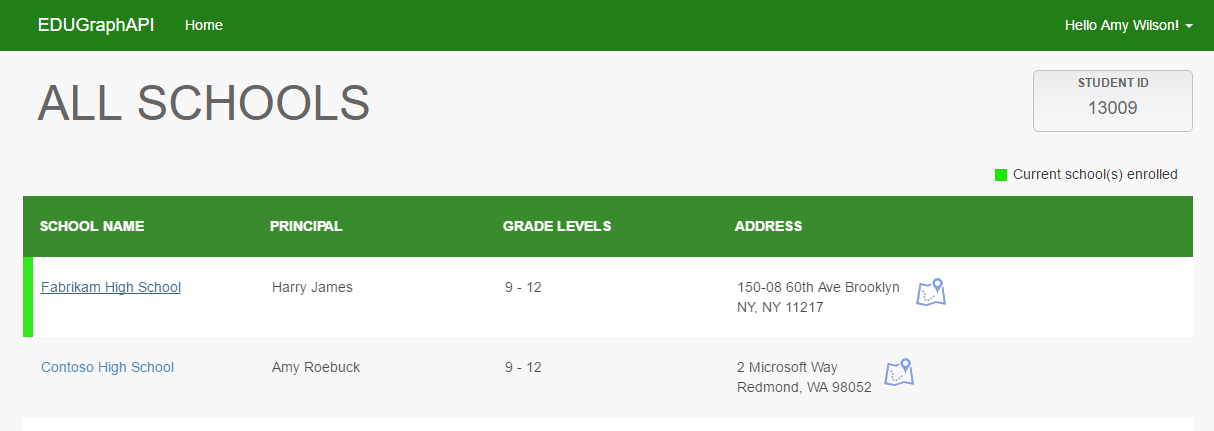
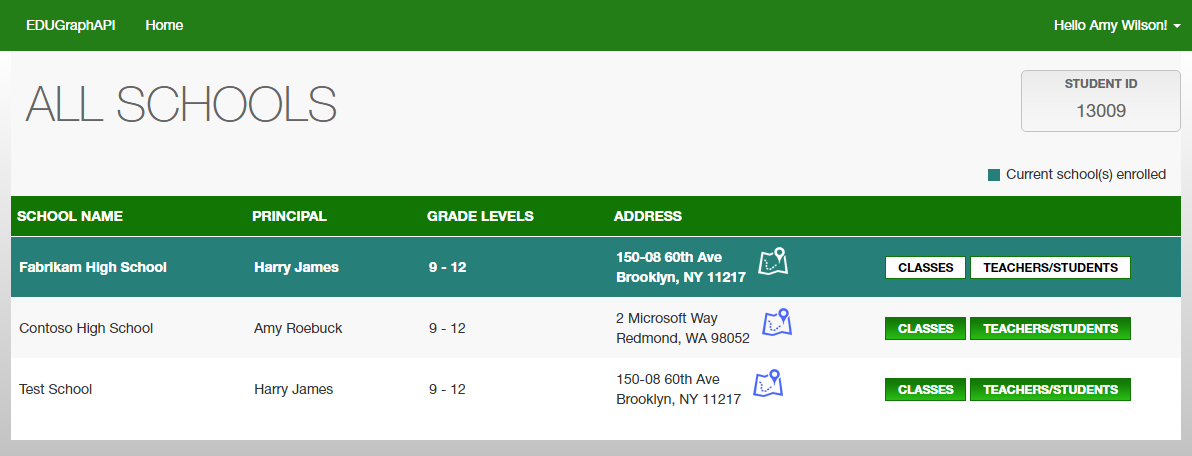
201612192036

diff --git a/src/EDUGraphAPI.Web/Content/Site.css b/src/EDUGraphAPI.Web/Content/Site.css
@@ -88,7 +88,7 @@ textarea {
 }
 
 /*Top navigation*/
-.navbar-inverse{background-color:#237e17;border-color:#237e17;}
+.navbar-inverse{background-color:#127605;border-color:#127605;}
 .navbar-inverse .navbar-brand, 
 .navbar-inverse .navbar-nav > li > a {color:white;}
 .navbar-inverse .navbar-brand{font-size:14px}
@@ -146,8 +146,9 @@ textarea {
 .schoolmap{float:left;}
 .toptiles{
     padding: 10px 0 15px 0;
-    border: 1px solid #237e17;
+    border: 1px solid #117605;
     border-top: none;
+    border-bottom-color:#127605;
     background-color: white;
     border-radius:5px;
     border-top-left-radius:0;
@@ -173,7 +174,7 @@ textarea {
     color: #fff;
     background-image: url(/Images/btngreenbg.png);
     padding: 3px 12px;
-    border: 1px solid #127604;
+    border: 1px solid #127605;
     text-decoration:none;
 }
 .table-green .td-green a.btnlink{background-color:white !important; background-image:none;color:black;text-transform:uppercase;}
@@ -194,16 +195,16 @@ textarea {
 .hr-green{border: 0;height: 10px;margin-top: 10px;}
 
 /*sections*/
-.sections .tophero{border-bottom:5px solid #127604;}
+.sections .tophero{border-bottom:5px solid #127605;}
 .sections .tophero .usericon{margin-top:10px;}
 .sections .tophero .usericon div{float:left;}
 .sections .tophero .usericon .icon{width:12px; height:12px; margin:5px 6px 0 0; background:-prefix-linear-zgradient(top, #434345, #BBBBBB); background:linear-gradient(to bottom, #434345, #BBBBBB);}
 .sections .tophero .usericon .icon.my-class{margin-left:12px; background:-prefix-linear-zgradient(top, #4E9F42, #B8E2B2); background:linear-gradient(to bottom, #4E9F42, #B8E2B2);}
 
-.section-tiles{padding-left:15px; background-color:white}
-.section-tiles .tile-container{margin-right: 18px;float: left;margin-bottom: 5px;margin-top: 12px;position:relative;}
+.section-tiles{padding:0 17.14px; background-color:white}
+.section-tiles .tile-container{margin-right:17.14px;float: left;margin-bottom: 5px;margin-top: 12px;position:relative;}
 .section-tiles .tile-container:nth-child(6n){margin-right:0;}
-.section-tiles .tile{display:inline-block;width:170px;height:170px;border:1px solid #C2C2C2;border-radius:5px;-moz-border-radius:5px;background: -prefix-linear-zgradient(top, #434345, #BBBBBB); background: linear-gradient(to bottom, #434345, #BBBBBB); color:#fff;}
+.section-tiles .tile{display:inline-block;width:175px;height:175px;box-sizing:border-box;border:1px solid #C2C2C2;border-radius:5px;-moz-border-radius:5px;background: -prefix-linear-zgradient(top, #434345, #BBBBBB); background: linear-gradient(to bottom, #434345, #BBBBBB); color:#fff;}
 .mysectionlink .tile{border:1px solid #C2C2C2;border-radius:5px;-moz-border-radius:5px;background: -prefix-linear-zgradient(top, #4E9F42, #B8E2B2); background: linear-gradient(to bottom, #4E9F42, #B8E2B2); }
 .section-tiles .tile>h5{text-align: center;margin: 60px 5px 0 5px;font-size:14px;font-style: normal;font-variant: normal;text-overflow:ellipsis}
 .section-tiles .tile>h2{text-align: center;margin-top:4px;font-size:30px;}
@@ -228,7 +229,7 @@ textarea {
 .b-title{font-size:24px;color:#666565;}
 .class-details .b-title{font-family:'Helvetica Neue LT Std Th'}
 .coursedetail .col-md-6{padding:12px 0 6px 0;}
-.coursedetail .col-md-6 span{font-family:'Helvetica Neue LT Std Bold'}
+.coursedetail .col-md-6 span:not(#termdate):not(#termdate-separator){font-family:'Helvetica Neue LT Std Bold'}
 .coursedetail .col-md-6:last-child{padding:12px 0 6px 0;}
 .coursedetail .col-md-6:last-child > b{color:#F7F7F7;}
 .coursedetail .col-md-6:last-child > b:first-child{color:#333;}
@@ -272,7 +273,7 @@ textarea {
 
 /*User info popup window*/
 .navbar-right a{color:white;text-decoration:none;}
-.userinfo .caret{color:white;font-size:20px;    }
+.userinfo .caret{color:white;font-size:20px;}
 .transformcaret{transform: rotate(180deg);}
 .userinfo{height:50px;line-height:50px;}
 .popupcontainer{display:none;}
@@ -285,7 +286,7 @@ textarea {
 }
 .subitem{float:left;width:100%;}
 .subitem a{color:black;text-decoration:none;width:100%;height:100%;display:block;padding:10px 0 10px 20px;}
-.subitem:hover{background-color:#237e17;color:white;}
+.subitem:hover{background-color:#127605;color:white;}
 .subitem a:hover{color:white;}
 .container {width: 1170px;}
 
@@ -370,13 +371,14 @@ max-width: 140px;
 
 
 /*Teachers & Students page*/
-.teacher-student .tophero{border-bottom:5px solid #127604;}
+.teacher-student .tophero{border-bottom:5px solid #127605;}
 .teacher-student .usericon{margin-top:10px;}
 .teacher-student .usericon div{float:left;}
 .teacher-student .usericon .stuicon{width:12px; height:12px; margin:5px 6px 0 0; background-color:#444444;}
 .teacher-student .usericon .teacicon{width:12px; height:12px; margin:5px 6px 0 12px; background-color:#4DA143;}
-.teacher-student .tiles-root-container{background-color:white; padding:12px 0;}
-.teacher-student .tiles-root-container .element{margin:12px; float:left; width:170px; height:170px; border-radius:12px; background-color:gray;}
+.teacher-student .tiles-root-container{background-color:white; padding:12px 17.14px;}
+.teacher-student .tiles-root-container .element{margin:12px 17.14px 12px 0; float:left; width:175px; height:175px; border-radius:12px; background-color:gray;}
+.teacher-student .tiles-root-container .element:nth-child(6n){margin-right:0;}
 .teacher-student .tiles-root-container .element .userimg{height:100px;text-align:center;position:relative;}
 .teacher-student .tiles-root-container .element .username{height:70px;color:white; text-align:center;padding-top:12px;}
 .teacher-student .tiles-root-container .element img{

diff --git a/src/EDUGraphAPI.Web/Infrastructure/EduAuthorizeAttribute.cs b/src/EDUGraphAPI.Web/Infrastructure/EduAuthorizeAttribute.cs
@@ -5,11 +5,14 @@ namespace EDUGraphAPI.Web.Infrastructure
     /// <summary>
     /// Allow the web app to redirect the current user to the proper login page in our multi-authentication-method scenario
     /// </summary>
-    public class EduAuthorizeAttribute: AuthorizeAttribute
+    public class EduAuthorizeAttribute : AuthorizeAttribute
     {
         protected override void HandleUnauthorizedRequest(AuthorizationContext filterContext)
         {
-            filterContext.Result = new RedirectResult("/Account/Login");
+            if (filterContext.HttpContext.Request.IsAjaxRequest())
+                filterContext.Result = new JsonResult { Data = new { error = "Unauthorized" } };
+            else
+                filterContext.Result = new RedirectResult("/Account/Login");
         }
     }
 }

diff --git a/src/EDUGraphAPI.Web/Infrastructure/HandleAdalExceptionAttribute.cs b/src/EDUGraphAPI.Web/Infrastructure/HandleAdalExceptionAttribute.cs
@@ -18,6 +18,13 @@ namespace EDUGraphAPI.Web.Infrastructure
         {
             if (!(filterContext.Exception is AdalException)) return;
 
+            if (filterContext.HttpContext.Request.IsAjaxRequest())
+            {
+                filterContext.Result = new JsonResult { Data = new { error = "AdalException" } };
+                filterContext.ExceptionHandled = true;
+                return;
+            }
+
             var requestUrl = filterContext.HttpContext.Request.Url.ToString();
             var challengeImmediately = filterContext.Controller.TempData[ChallengeImmediatelyTempDataKey];
             if (challengeImmediately as bool? == true)

diff --git a/README.md b/README.md
@@ -480,6 +480,8 @@ Below are some screenshots of the sample app that show the education data.
 
 ![](Images/edu-schools.png)
 
+![](Images/edu-users.png)
+
 ![](Images/edu-classes.png)
 
 ![](Images/edu-class.png)
